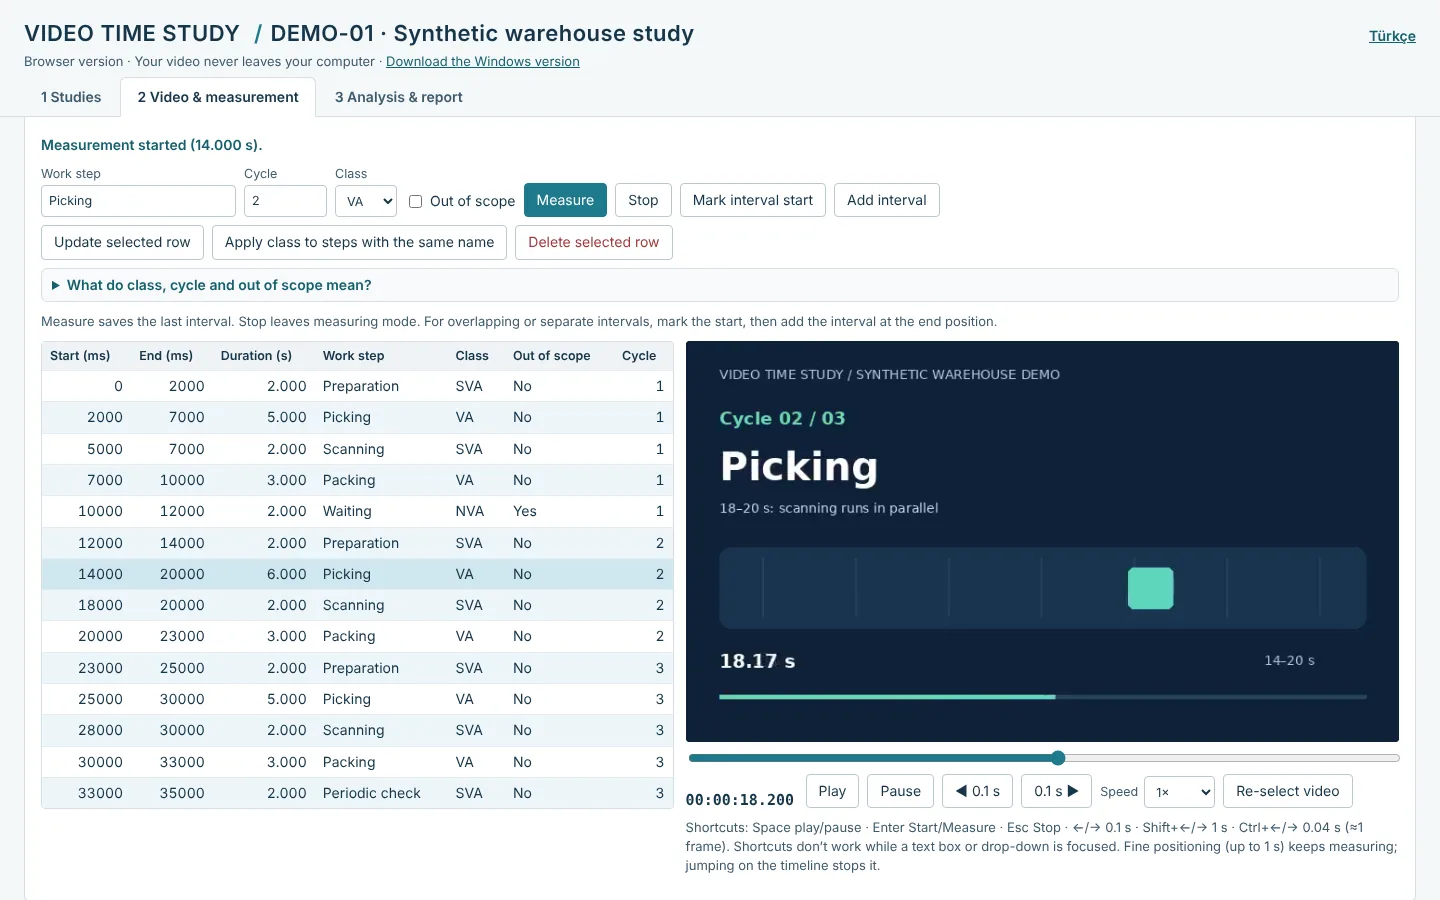
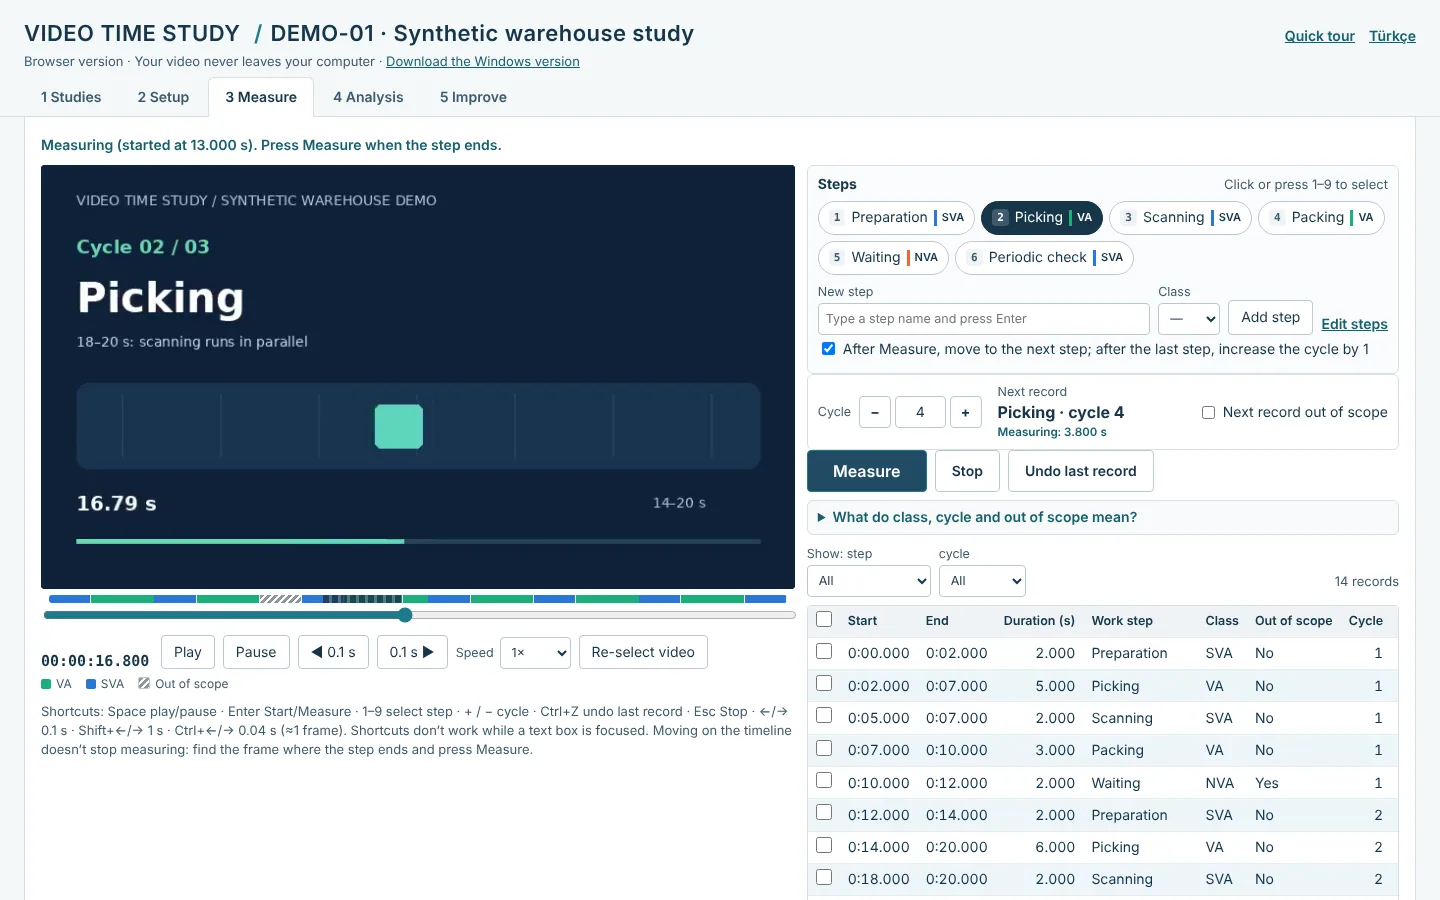
Zaman Etüdü: yeni ekran görüntüleri (5 sekmeli düzen) ve metinde sade düzen maddesi
Claude-Session: https://claude.ai/code/session_01QKvCnuMdE2MpdTY9jFVHaP

diff --git a/src/data/projects.ts b/src/data/projects.ts
@@ -87,9 +87,9 @@ export const PROJECTS: Project[] = [
     download: GH + 'video-zaman-etudu/releases/latest',
     tech: ['JavaScript', 'IndexedDB', 'C#', 'WPF', '.NET 8', 'SQLite', 'Excel (OpenXML)', 'Cloudflare Workers', 'GitHub Actions'],
     shots: [
-      { src: '/img/video-zaman-etudu/olcum.webp', srcEn: '/img/video-zaman-etudu/olcum-en.webp', w: 1440, h: 900, alt: { tr: 'Video ve ölçüm ekranı: ölçüm video zamanından alınır, her Ölç bir sonraki adımın başlangıcı olur', en: 'Video and measurement screen: times come from the video position, each Measure starts the next step' } },
-      { src: '/img/video-zaman-etudu/analiz.webp', srcEn: '/img/video-zaman-etudu/analiz-en.webp', w: 1440, h: 900, alt: { tr: 'Analiz: adım bazında gözlem yeterliliği, baz, normal ve standart süre, çevrimlerin geçen süresi ve iş yükü', en: 'Analysis: per-step sample sufficiency, base, normal and standard time, cycle elapsed time and workload' } },
-      { src: '/img/video-zaman-etudu/calismalar.webp', srcEn: '/img/video-zaman-etudu/calismalar-en.webp', w: 1440, h: 900, alt: { tr: 'Çalışmalar: etütler tarayıcıda saklanır; .vzetud paketiyle içe ve dışa aktarılır', en: 'Studies: kept in the browser; imported and exported as .vzetud packages' } },
+      { src: '/img/video-zaman-etudu/olcum.webp', srcEn: '/img/video-zaman-etudu/olcum-en.webp', w: 1440, h: 900, alt: { tr: 'Ölçüm sekmesi: ölçüm video zamanından alınır, her Ölç bir sonraki adımın başlangıcı olur; birden çok kayıt birlikte düzeltilebilir', en: 'Measure tab: times come from the video position, each Measure starts the next step; several records can be fixed together' } },
+      { src: '/img/video-zaman-etudu/analiz.webp', srcEn: '/img/video-zaman-etudu/analiz-en.webp', w: 1440, h: 900, alt: { tr: 'Analiz sekmesi: etüt onayı, tek Çıktı al menüsü, katlı ayar özeti ve Özet, Adım tablosu, Çevrimler, Dağılım alt sekmeleri', en: 'Analysis tab: study approval, a single Export menu, a folded settings summary and Summary, Step table, Cycles, Distribution sub-tabs' } },
+      { src: '/img/video-zaman-etudu/calismalar.webp', srcEn: '/img/video-zaman-etudu/calismalar-en.webp', w: 1440, h: 900, alt: { tr: 'Çalışmalar: yeni etütte kullanılacak yalın araçlar seçilir; listede yeterlilik ve onay durumu görünür', en: 'Studies: choose the lean tools a new study will use; the list shows sufficiency and approval status' } },
     ],
     og: '/img/video-zaman-etudu/og.jpg',
     ogEn: '/img/video-zaman-etudu/og-en.jpg',
@@ -114,6 +114,7 @@ export const PROJECTS: Project[] = [
         'İş örneklemesi: videoda rastgele anlarda gözlem, kategori payları, güven aralığı ve hedef hata için gereken gözlem sayısı',
         'Önce / sonra karşılaştırması ve iki videoyu yan yana, adım adım izleme',
         'Özet sayfalı Excel raporu, yazdır / PDF ve etüdü başka bilgisayara taşıyan .vzetud paketi; bütün etütler tek .zip ile yedeklenir. Video ve klasör yolu paylaşılmaz',
+        'İşin sırasını izleyen beş sekme: Çalışmalar → Hazırlık → Ölçüm → Analiz → İyileştirme. Yalın araçlar etüde göre seçilir; seçilmezse ekranlar sade kalır. Adım listesi başka etütten alınır, kayıtlar toplu düzeltilir, etüt onaylanır; ilk açılışta kısa tur yol gösterir',
         'İki sürüm, tek kural seti: sunucusuz tarayıcı sürümü ve Windows masaüstü, ikisi de Türkçe ve İngilizce. Ortak test dosyaları (61 hesap örneği, 86 paket senaryosu ve ileri analizler) her gönderimde iki sürümün aynı sonucu ve aynı paketi ürettiğini doğrular',
       ],
     },
@@ -134,6 +135,7 @@ export const PROJECTS: Project[] = [
         'Work sampling: observations at random moments in the video, category shares, confidence interval and the observations needed for a target error',
         'Before / after comparison and side-by-side, step-by-step video playback',
         'Excel report with a summary sheet, print / PDF and a .vzetud package to move a study to another computer; all studies back up into one .zip. The video and folder paths are never shared',
+        'Five tabs that follow the job: Studies → Setup → Measure → Analysis → Improve. Lean tools are chosen per study; without them the screens stay simple. Steps can be copied from another study, records fixed in bulk and the study approved; a short tour guides first-time users',
         'Two versions, one rule set: a serverless browser version and a Windows desktop app, both in English and Turkish. Shared test files (61 calculation cases, 86 package scenarios and the advanced analyses) check on every push that both give the same results and write the same package',
       ],
     },
